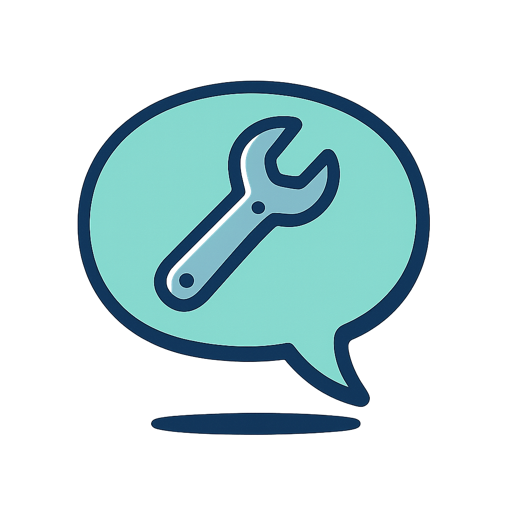
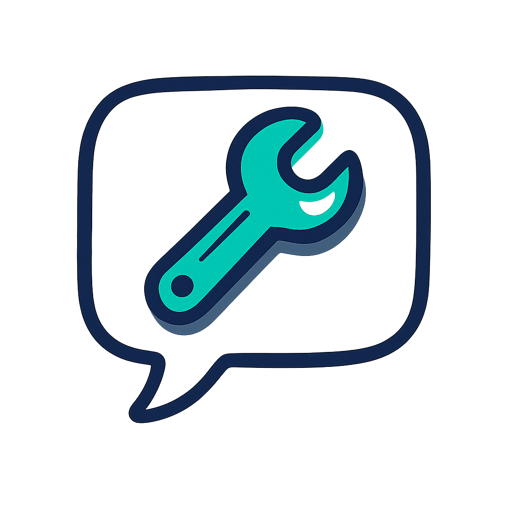
Tighten illustration STYLE_LOCK for strict brand-mint color
Symptoms: previous regen produced sage-leaning greens because
gpt-image-1 treats hex codes as soft suggestions. Fix: replace hex
with aggressive color descriptors plus explicit negatives.

STYLE_LOCK changes (mirrored in .py, .mjs, and the style-guide page):
- Brand mint described as 'vibrant electric mint/cyan, bright punchy
  aqua-green, like Spotify green but more cyan-leaning'
- Explicit caps lock and italicized 'MUST be vivid, saturated,
  cyan-leaning'
- Pre-listed antonyms in the positive description: 'NOT sage, NOT
  olive, NOT forest, NOT teal, NOT emerald, NOT dark green, NOT
  muted, NOT desaturated'
- Outline color reframed as 'deep navy BLUE, not green-tinted' so
  the model doesn't bias it toward dark green
- Expanded Negative block: NO SAGE GREEN (caps for emphasis), no
  olive, forest, teal, emerald, lime, muted greens, dusty greens,
  no warm tones, oranges, yellows, purples, reds, pinks

Regenerated all 9 PNGs with the strengthened prompt and re-compressed
to 512px. Total payload: 1.2 MB.

Cost: ~$0.30 for the regen.

diff --git a/scripts/generate-illustrations.py b/scripts/generate-illustrations.py
@@ -31,20 +31,40 @@ OUT_DIR = ROOT / "public" / "illustrations" / "style"
 STYLE_LOCK = """Minimalist hand-drawn vector illustration of a single subject, centered with
 generous negative space, on a fully transparent background (NOT black, NOT a
 colored fill). Hand-inked marker style: thick, slightly rough, organic outlines
-of even medium-heavy weight in deep navy (#0A1628), with the occasional doubled
-"ghost" outline stroke for a sketched feel. Flat color fills from a strict
-four-value palette only — primary brand mint/cyan (#00E5A0), card navy
-(#1E293B), and almost-white (#F8FAFC) reserved for inner highlights and small
-curved "shine" strokes. Each major shape casts ONE flat, hard-edged offset
-drop shadow (no blur, no gradient) in the card navy (#1E293B), offset slightly
-down and to the right. Rounded, friendly, organic forms with soft corners.
-Completely flat shading: no gradients, no directional lighting, no texture,
-no 3D. Straight-on 2D perspective. Square 1:1 composition. Modern, confident,
+of even medium-heavy weight in DEEP NAVY BLUE (#0A1628 — a very dark navy
+blue, not black, not green), with the occasional doubled "ghost" outline
+stroke for a sketched feel.
+
+STRICT FOUR-COLOR PALETTE — use ONLY these four values, nothing else:
+
+  1. OUTLINE: #0A1628 — deep navy blue (very dark cool blue, not black,
+     not green-tinted)
+  2. PRIMARY FILL: #00E5A0 — vibrant electric mint/cyan, a bright punchy
+     aqua-green (like Spotify green but more cyan-leaning; absolutely NOT
+     sage, NOT olive, NOT forest, NOT teal, NOT emerald, NOT dark green,
+     NOT muted, NOT desaturated — it MUST be a vivid, saturated,
+     cyan-leaning bright green that almost glows)
+  3. SHADOW: #1E293B — slate navy, slightly lighter than the outline,
+     a cool blue-gray; use for ONE flat, hard-edged offset drop shadow per
+     major shape, offset slightly down and to the right
+  4. HIGHLIGHT: #F8FAFC — almost-white, reserved for inner shine strokes
+     and small curved gleam lines
+
+The mint/cyan #00E5A0 must look ELECTRIC and SATURATED. If it could be
+mistaken for sage, olive, forest, or any muted/dusty green, it is wrong.
+
+Each major shape casts ONE flat, hard-edged offset drop shadow (no blur, no
+gradient). Rounded, friendly, organic forms with soft corners. Completely
+flat shading: no gradients, no directional lighting, no texture, no 3D.
+Straight-on 2D perspective. Square 1:1 composition. Modern, confident,
 trustworthy tone.
 
-Negative: no black or colored background, no photorealism, no gradients, no
-ambient occlusion, no neon, no colors outside the four-color palette above,
-no lettering or numbers, no eyes / surveillance-camera / spying imagery."""
+Negative: no black or colored background, no photorealism, no gradients,
+no ambient occlusion, no neon glow effect, NO SAGE GREEN, no olive, no
+forest green, no teal, no emerald, no lime, no muted greens, no dusty
+greens, no warm tones, no oranges, no yellows, no purples, no reds, no
+pinks, no colors outside the strict four-color palette above, no lettering
+or numbers, no eyes / surveillance-camera / spying imagery."""
 
 # === Block B — Subject library ===
 SUBJECTS = [
